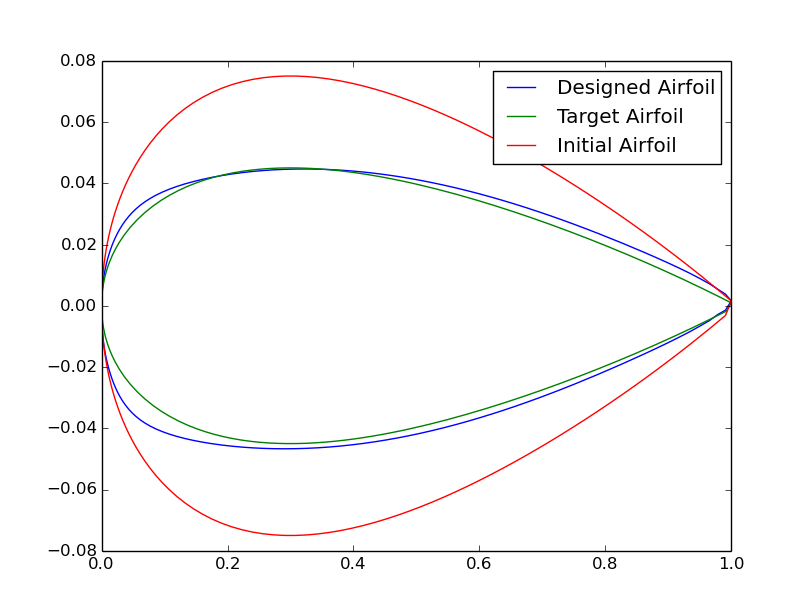
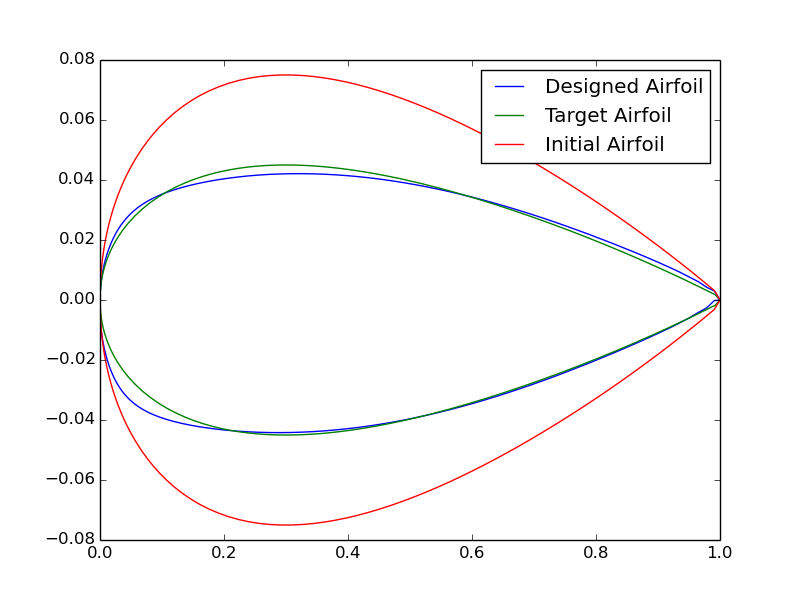
Changed no. of iterations and added Cp Plot

diff --git a/linux_code.py b/linux_code.py
@@ -237,17 +237,29 @@ target_airfoil = ReadXY('n0009')
 initial_airfoil = ReadXY('n0015')
 modified_x_y = ReadXY('Modified')
 transfered_cp_x = get_cp_on_x(target_cp_x,modified_x_y[0])
-for x in xrange(1,170):
+for x in xrange(1,190):
     current_cp = Xfoil('Modified', '5000000', '0', '0.2')
     modified_x_y = algorithm(transfered_cp_x, current_cp[0], modified_x_y, 0.2)
     create_xy(modified_x_y)
 
-plt.figure()
+fig1 = plt.figure()
 ax = plt.subplot(111)
 ax.plot(modified_x_y[0],modified_x_y[1], label = 'Designed Airfoil')
 ax.plot(target_airfoil[0],target_airfoil[1], label = 'Target Airfoil')
 ax.plot(initial_airfoil[0],initial_airfoil[1], label = 'Initial Airfoil')
 ax.legend()
-plt.show()
+fig1.savefig('result.png')
+
+plot_target_cp = Xfoil('n0009', '5000000' , '0', '0.2')
+plot_initial_cp = Xfoil('n0015', '5000000' , '0', '0.2')
+plot_final_cp = Xfoil('Modified', '5000000' , '0', '0.2')
+
+fig2 = plt.figure(2)
+ax = plt.subplot(111)
+ax.plot(plot_target_cp[1],plot_target_cp[0], label = 'Target Airfoil')
+ax.plot(plot_initial_cp[1],plot_initial_cp[0], label = 'Initial Airfoil')
+ax.plot(plot_final_cp[1],plot_final_cp[0], label = 'Designed Airfoil')
+ax.legend()
+fig2.savefig('cpresult.png')
 
 
